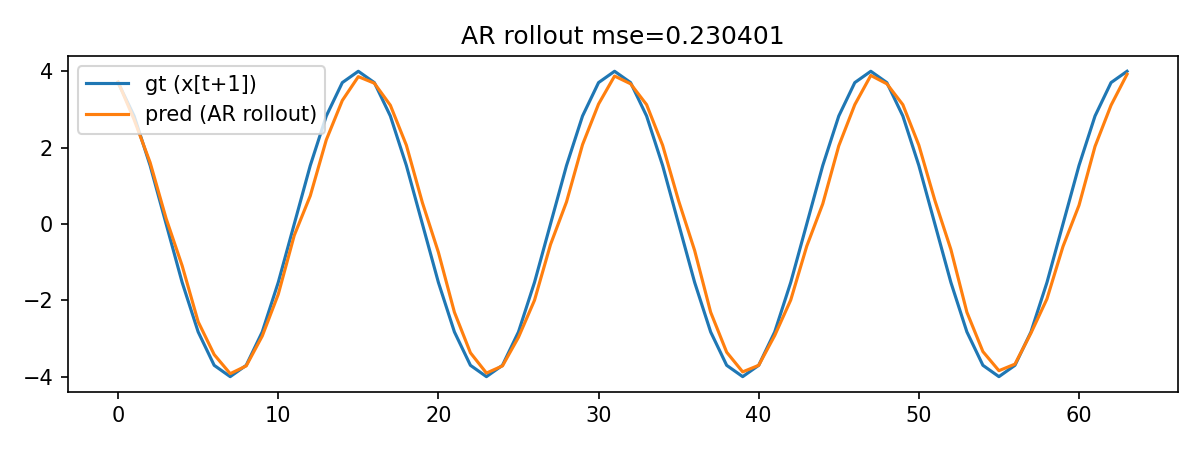
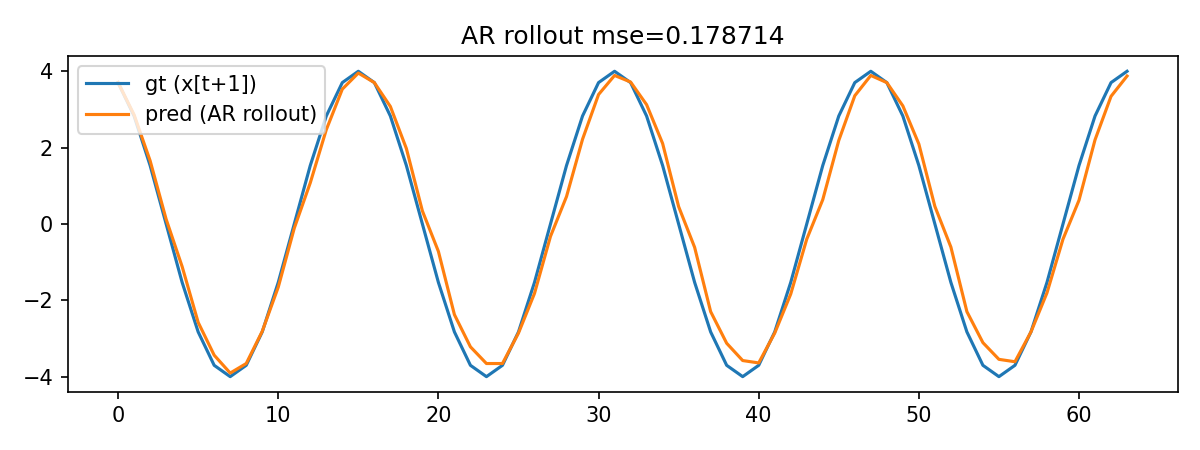
完成用triton的训练

diff --git a/KimiLinear/attention.py b/KimiLinear/attention.py
@@ -168,6 +168,7 @@ class KimiDeltaAttention(nn.Module):
                 cu_seqlens=cu_seqlens,
                 initial_t=past_len,
                 T_cycle=self.T_cycle,
+                use_triton=True,
             )
         else:                  # 推理剩余步
             past_len = getattr(cache_params, "seen_tokens", 0) if cache_params is not None else 0

diff --git a/myfla/chunk_vecbeta.py b/myfla/chunk_vecbeta.py
@@ -28,7 +28,7 @@ def chunk_kda(
     initial_t: int = 0,
     T_cycle: int = 8,
     chunk_indices: torch.LongTensor | None = None,
-    use_triton: bool = False,
+    use_triton: bool = True,
     **kwargs,
 ):
     if cu_seqlens is not None:
